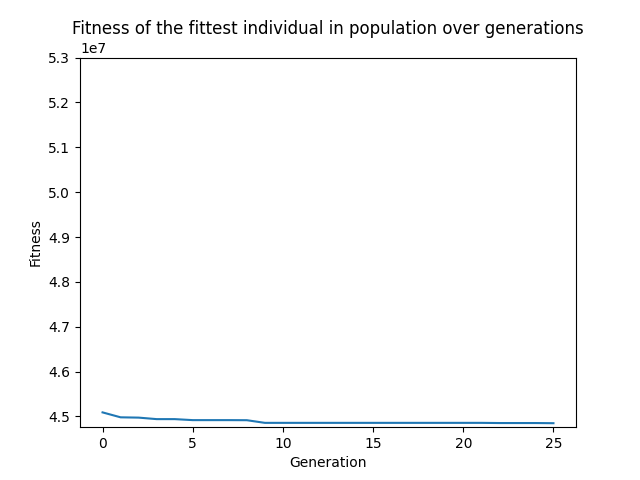
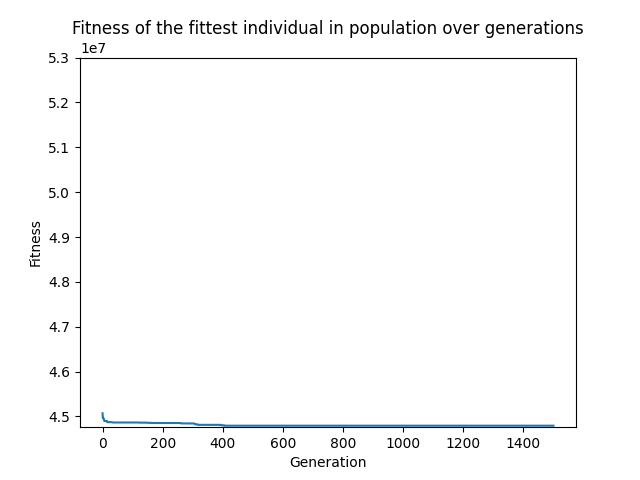
--- Result --- 44792836

Changed region(s): [[0.1562, 0.8438, 0.875, 0.9375]]

diff --git a/src/tests/test_fitness_function.py b/src/tests/test_fitness_function.py
@@ -19,6 +19,12 @@ def test_bulk_basic_fitness_function():
     assert np.array_equal(fitness_values, expected)
 
 
-if __name__ == "__main__":
-    test_bulk_basic_fitness_function()
+def test_basic_fitness_function_value_of_best():
+    flow_matrix, distance_matrix = read_data()
+
+    chromosome = [49, 111, 251, 87, 188, 46, 203, 229, 130, 216, 112, 64, 55, 7, 169, 158, 63, 246, 20, 207, 67, 37, 143, 32, 72, 77, 34, 124, 244, 238, 60, 43, 218, 171, 178, 139, 52, 57, 190, 109, 12, 255, 97, 69, 104, 115, 9, 106, 14, 210, 136, 236, 173, 3, 40, 74, 102, 22, 166, 199, 248, 141, 214, 161, 121, 186, 94, 242, 147, 29, 154, 184, 117, 176, 17, 144, 0, 221, 91, 208, 164, 151, 181, 84, 233, 132, 134, 225, 195, 212, 26, 82, 254, 83, 172, 116, 157, 2, 128, 133, 18, 28, 73, 44, 135, 187, 140, 90, 232, 226, 56, 110, 146, 211, 185, 167, 142, 66, 162, 53, 252, 168, 219, 145, 65, 118, 86, 101, 180, 127, 107, 220, 152, 41, 192, 96, 62, 228, 247, 71, 23, 105, 155, 138, 33, 75, 125, 222, 99, 19, 198, 6, 174, 163, 191, 196, 230, 38, 234, 122, 159, 1, 13, 165, 48, 31, 25, 241, 24, 205, 45, 15, 113, 30, 119, 253, 182, 249, 88, 120, 123, 85, 61, 16, 194, 103, 160, 202, 47, 156, 79, 76, 21, 95, 170, 177, 240, 213, 189, 80, 215, 200, 92, 223, 175, 131, 239, 201, 148, 108, 204, 68, 179, 235, 42, 217, 58, 183, 209, 5, 10, 35, 250, 126, 98, 227, 206, 231, 237, 245, 114, 78, 50, 59, 70, 4, 93, 54, 197, 89, 137, 150, 39, 8, 11, 193, 27, 81, 243, 224, 100, 149, 51, 36, 153, 129]
+    chromosome = np.array(chromosome)
+
+    expected = 44792836
+    assert basic_fitness_function(flow_matrix, distance_matrix, chromosome) == expected
 

diff --git a/src/main.py b/src/main.py
@@ -7,6 +7,7 @@ import matplotlib.pyplot as plt
 from numpy import ndarray
 
 from src.chromosome import generate_random_chromosomes
+from src.greedy_optimizations import reset_cache, NUM_CACHE_HITS
 from src.mutation import apply_mutation_to_population, swap_mutation
 from src.read_data import read_data
 from src.config import POPULATION_SIZE, NUMBER_OF_GENERATIONS, TESTING, TESTING_SIZE, NUMBER_OF_FACILITIES, \
@@ -69,7 +70,7 @@ def basic_evolution_loop(
 
     for generation in range(NUMBER_OF_GENERATIONS):
         start_time = time.time()
-        if generation % (max(NUMBER_OF_GENERATIONS // 10, 1)) == 0:
+        if generation % 10 == 0:
             print(f"Generation {generation + 1}")
             print(f"Best fitness: {np.min(population_fitness)}")
 
@@ -129,6 +130,11 @@ def basic_evolution_loop(
         end_time = time.time()
         time_per_generation.append(end_time - start_time)
 
+        # Check if cache needs to be reset
+        if generation % 125 == 0:
+            reset_cache()
+
+    print(f"Number of cache hits: {NUM_CACHE_HITS}")
     print(f"Best solution: {population[np.argmin(population_fitness)]} with fitness {np.min(population_fitness)}")
 
     return population[np.argmin(population_fitness)], np.min(population_fitness), best_fitness_each_generation, time_per_generation

diff --git a/src/config.py b/src/config.py
@@ -1,6 +1,6 @@
 # Hyperparameters
-POPULATION_SIZE: int = 10
-NUMBER_OF_GENERATIONS: int = 25
+POPULATION_SIZE: int = 20
+NUMBER_OF_GENERATIONS: int = 1500
 NUMBER_OF_FACILITIES: int = 256
 MUTATION_PROB: float = 0.1
 TOURNAMENT_SIZE: int = 10

diff --git a/README.md b/README.md
@@ -5,6 +5,30 @@ This repository documents the progress of developing a evolutionary algorithm to
 
 The best results are in descending order, that is, the best result is shown on top.
 
+## 44792836
+
+```text
+Functions used:
+Variant: lamarckian
+Fitness function: bulk_basic
+Selection function: roulette_wheel
+Recombination function: partially_mapped
+Mutation function: swap
+
+Hyperparameters:
+Population size: 20
+Number of generations: 1500
+Number of facilities: 256
+Mutation probability: 0.1
+Tournament size: 10
+Testing: False
+
+Results:
+Best fitness: 44792836
+Total time: 36927.23 seconds
+Average time per generation per individual: 1230.115 milliseconds
+```
+
 ## [44848506](https://github.com/RaoulLuque/SolvingQAPWithEvolution/tree/48a3a2939e831397f5e634c0fc9c8fdbe18e27cb)
 ```text
 Functions used:
